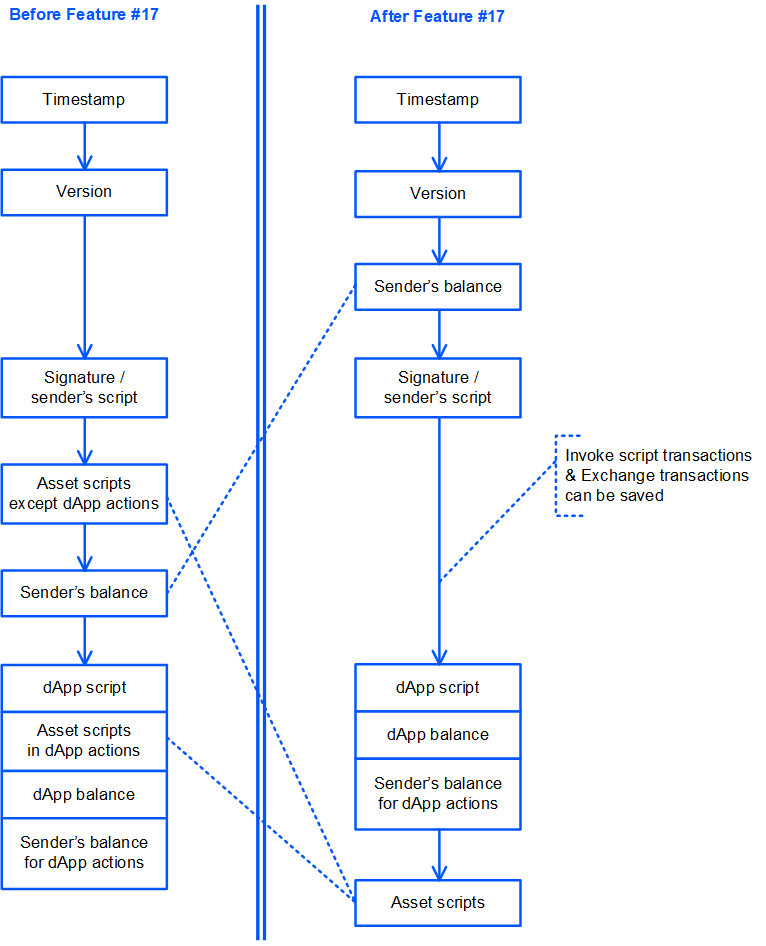
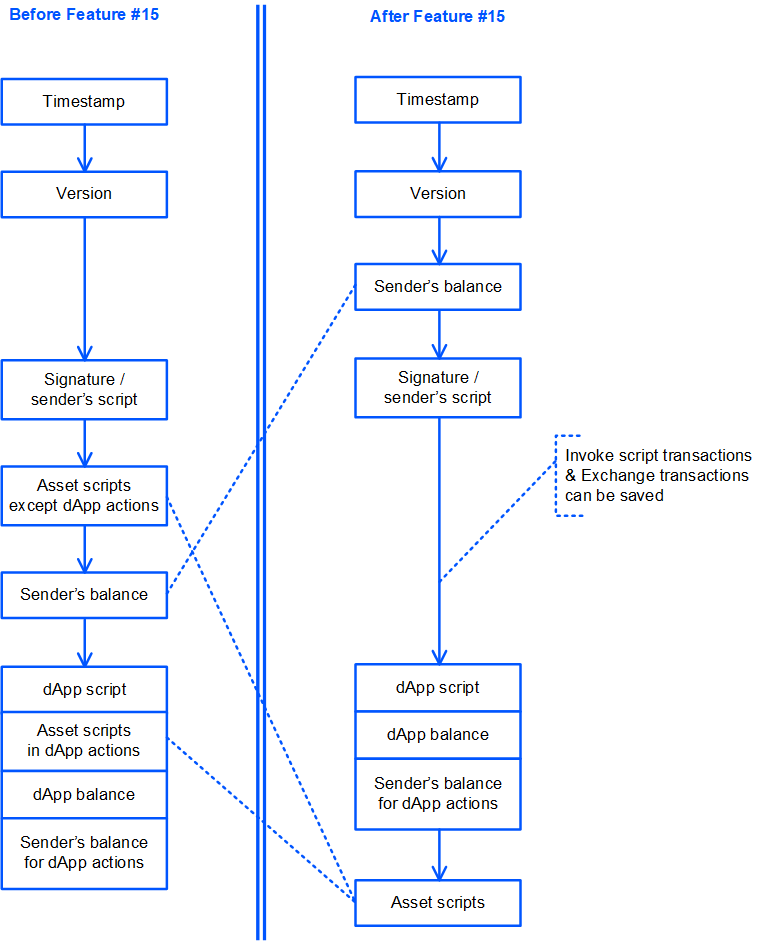
groth16 complexity, feature 17 rename

diff --git a/docs/ru/keep-in-touch/release-notes.md b/docs/ru/keep-in-touch/release-notes.md
@@ -2,19 +2,19 @@
 
 ## Улучшения ноды
 
-* Усовершенствован механизм [генерации блоков](/ru/blockchain/block/block-generation) за счет использования [VRF](https://en.wikipedia.org/wiki/Verifiable_random_function) (Verifiable random function). Это улучшение позволяет противостоять атакам типа stake grinding, при помощи которых злоумышленники пытаются повысить для себя вероятность генерации блока.
-* Изменена схема подписания майнящей нодой транзакций блока. Ранее майнящей ноде требовалось подписывать блок вместе со всеми транзакциями. Теперь в заголовок блока добавлен [корневой хеш транзакций](/ru/blockchain/block/merkle-root), поэтому достаточно подписать только заголовок.
-* В качестве идентификатора блока используется хеш BLAKE2b-256 заголовка блока.
+* Транзакции вызова скрипта и транзакции обмена сохраняются на блокчейне и за них взимается комиссия, если транзакция прошла проверку подписи отправителя или проверку скриптом аккаунта, но результат выполнения dApp-скрипта или скрипта ассета был неудачным. Сохранение невалидных транзакций поддержано в инструментах Waves. [Подробнее](/ru/keep-in-touch/april)
 * Реализована возможность удалять записи в хранилище данных аккаунта. Это действие может быть выполнено при помощи [транзакции данных](/ru/blockchain/transaction-type/data-transaction) либо структуры [DeleteEntry](/ru/ride/structures/common-structures/delete-entry) языка Ride.
 * Реализована возможность изменять наименование и описание выпущенных ассетов. Для этого предлагается использовать транзакцию нового типа, называемую [транзакцией обновления информации ассета](/ru/blockchain/transaction-type/update-asset-info-transaction).
-* Транзакции вызова скрипта и транзакции обмена сохраняются в блокчейне и за них взимается комиссия, если транзакция прошла проверку подписи отправителя или проверку скриптом аккаунта, но результат выполнения dApp-скрипта или скрипта ассета был неудачным.
 * Снижена минимальная комиссия за [транзакцию довыпуска](/ru/blockchain/transaction-type/reissue-transaction) — с 1 до 0,001 WAVES.
-* Бинарные форматы транзакций реализованы на основе [protobuf](https://developers.google.com/protocol-buffers/docs/overview?hl=ru).
 * В [транзакции выпуска](/ru/blockchain/transaction-type/issue-transaction) формат полей `name` и `description` изменен с bytes на string.
 * В [транзакции перевода](/ru/blockchain/transaction-type/transfer-transaction) и [транзакции массового перевода](/ru/blockchain/transaction-type/mass-transfer-transaction) изменен тип поля `attachment` на [union](/ru/ride/data-types/union) `(type: Int|Boolean|ByteVector|String)`.
 * В [транзакции данных](/ru/blockchain/transaction-type/transfer-transaction) максимальный размер данных увеличен до 165890 байт.
 * В [транзакции обмена](/ru/blockchain/transaction-type/transfer-transaction) ордера на покупку и продажу могут быть указаны в любом порядке.
+* Бинарные форматы транзакций реализованы на основе [protobuf](https://developers.google.com/protocol-buffers/docs/overview?hl=ru).
 * Изменена формула расчета price в [ордерах](/ru/blockchain/order). Ранее, при определении price для ассетов с разным количеством десятичных знаков, возникала проблема с величиной price. Её максимальное значение зависело от разности десятичных знаков ассетов. К примеру, price для [NFT](/ru/blockchain/token/non-fungible-token)-ассета не мог превышать 1000 WAVES. Измененная формула исправляет эту проблему. Разность  десятичных знаков больше не влияет на максимальный размер price.
+* Усовершенствован механизм [генерации блоков](/ru/blockchain/block/block-generation) за счет использования [VRF](https://en.wikipedia.org/wiki/Verifiable_random_function) (Verifiable random function). Это улучшение позволяет противостоять атакам типа stake grinding, при помощи которых злоумышленники пытаются повысить для себя вероятность генерации блока.
+* Изменена схема подписания майнящей нодой транзакций блока. Ранее майнящей ноде требовалось подписывать блок вместе со всеми транзакциями. Теперь в заголовок блока добавлен [корневой хеш транзакций](/ru/blockchain/block/merkle-root), поэтому достаточно подписать только заголовок.
+* В качестве идентификатора блока используется хеш BLAKE2b-256 заголовка блока.
 
 ## Обновление Node API
 
@@ -54,7 +54,7 @@
    * [calculateAssetId](/ru/ride/functions/built-in-functions/blockchain-functions#calculate) — получает ID ассета, сформированного структурой [Issue](/ru/ride/structures/common-structures/issue) при выполнении транзакции вызова скрипта. Сложность равна 10.
    * [contains](/ru/ride/functions/built-in-functions/string-functions#contains) — проверяет, содержит ли строка заданную подстроку. Сложность 20.
    * [createMerkleRoot](/ru/ride/functions/built-in-functions/verification-functions##createmerkleroot) — вычисляет [корневой хеш дерева Меркла транзакций блока](/ru/blockchain/block/merkle-root). Сложность 30.
-   * [groth16verify](/ru/ride/functions/built-in-functions/verification-functions#groth16verify) — семейство функций верификации [доказательства с нулевым разглашением](https://ru.wikipedia.org/wiki/Доказательство_с_нулевым_разглашением). Сложность 1900–3900 в зависимости от размера массива публичных входов.
+   * [groth16verify](/ru/ride/functions/built-in-functions/verification-functions#groth16verify) — семейство функций верификации [доказательства с нулевым разглашением](https://ru.wikipedia.org/wiki/Доказательство_с_нулевым_разглашением). Сложность 1200–2700 в зависимости от размера массива публичных входов.
    * [median](/ru/ride/functions/built-in-functions/math-functions#median) — вычисление медианы списка целых чисел. Сложность 10.
    * [transferTransactionFromProto](/ru/ride/functions/built-in-functions/converting-functions#transfertransactionfromproto) — десериализует транзакцию перевода. Сложность 5.
    * [valueOrElse(t: T|Unit, t0 : T)](/ru/ride/functions/built-in-functions/union-functions#valueOrElse) — получение значения из параметра типа данных объединение. Сложность 13.

diff --git a/docs/ru/ride/functions/built-in-functions/verification-functions.md b/docs/ru/ride/functions/built-in-functions/verification-functions.md
@@ -4,7 +4,7 @@
 | :--- | :--- | :--- |
 | [checkMerkleProof](#checkmerkleproof) | Проверяет, что данные являются частью [дерева Меркла](https://ru.wikipedia.org/wiki/Дерево_хешей) | 30 |
 | [createMerkleRoot](#createmerkleroot) | Вычисляет [корневой хеш дерева Меркла транзакций блока](/ru/blockchain/block/merkle-root) | 30 |
-| [groth16Verify](#groth16verify) | Семейство функций.<br>Осуществляют проверку [zk-SNARK](https://media.consensys.net/introduction-to-zksnarks-with-examples-3283b554fc3b) по протоколу [groth16](https://eprint.iacr.org/2016/260.pdf) | 1900–3900 |
+| [groth16Verify](#groth16verify) | Семейство функций.<br>Осуществляют проверку [zk-SNARK](https://media.consensys.net/introduction-to-zksnarks-with-examples-3283b554fc3b) по протоколу [groth16](https://eprint.iacr.org/2016/260.pdf) | 1200–2700 |
 | [rsaVerify](#rsaverify) | Семейство функций.<br>Проверяют, что цифровая подпись [RSA](https://ru.wikipedia.org/wiki/RSA) достоверна | 300 для [Стандартной библиотеки](/ru/ride/script/standard-library) **версии 3**<br>500–1000 для Стандартной библиотеки **версии 4** |
 | [sigVerify](#sigverify) | Семейство функций.<br>Проверяют, что цифровая подпись [Curve25519](https://en.wikipedia.org/wiki/Curve25519) достоверна | 100 для [Стандартной библиотеки](/ru/ride/script/standard-library) **версии 3**<br>100–200 для Стандартной библиотеки **версии 4** |
 
@@ -55,22 +55,22 @@ createMerkleRoot(merkleProofs: List[ByteVector], valueBytes: ByteVector, index: 
 
 | Название | Макс. кол-во входов | Сложность |
 |:---| :--- | :--- |
-| groth16Verify(vk:ByteVector, proof:ByteVector, inputs:ByteVector): Boolean | 16 | 3900 |
-| groth16Verify_1inputs(vk:ByteVector, proof:ByteVector, inputs:ByteVector): Boolean | 1 | 1900 |
-| groth16Verify_2inputs(vk:ByteVector, proof:ByteVector, inputs:ByteVector): Boolean | 2 | 2000 |
-| groth16Verify_3inputs(vk:ByteVector, proof:ByteVector, inputs:ByteVector): Boolean | 3 | 2150 |
-| groth16Verify_4inputs(vk:ByteVector, proof:ByteVector, inputs:ByteVector): Boolean | 4 | 2300 |
-| groth16Verify_5inputs(vk:ByteVector, proof:ByteVector, inputs:ByteVector): Boolean | 5 | 2450 |
-| groth16Verify_6inputs(vk:ByteVector, proof:ByteVector, inputs:ByteVector): Boolean | 6 | 2550 |
-| groth16Verify_7inputs(vk:ByteVector, proof:ByteVector, inputs:ByteVector): Boolean | 7 | 2700 |
-| groth16Verify_8inputs(vk:ByteVector, proof:ByteVector, inputs:ByteVector): Boolean | 8 | 2900 |
-| groth16Verify_9inputs(vk:ByteVector, proof:ByteVector, inputs:ByteVector): Boolean | 9 | 3000 |
-| groth16Verify_10inputs(vk:ByteVector, proof:ByteVector, inputs:ByteVector): Boolean | 10 | 3150 |
-| groth16Verify_11inputs(vk:ByteVector, proof:ByteVector, inputs:ByteVector): Boolean | 11 | 3250 |
-| groth16Verify_12inputs(vk:ByteVector, proof:ByteVector, inputs:ByteVector): Boolean | 12 | 3400 |
-| groth16Verify_13inputs(vk:ByteVector, proof:ByteVector, inputs:ByteVector): Boolean | 13 | 3500 |
-| groth16Verify_14inputs(vk:ByteVector, proof:ByteVector, inputs:ByteVector): Boolean | 14 | 3650 |
-| groth16Verify_15inputs(vk:ByteVector, proof:ByteVector, inputs:ByteVector): Boolean | 15 | 3750 |
+| groth16Verify(vk:ByteVector, proof:ByteVector, inputs:ByteVector): Boolean | 16 | 2700 |
+| groth16Verify_1inputs(vk:ByteVector, proof:ByteVector, inputs:ByteVector): Boolean | 1 | 1200 |
+| groth16Verify_2inputs(vk:ByteVector, proof:ByteVector, inputs:ByteVector): Boolean | 2 | 1300 |
+| groth16Verify_3inputs(vk:ByteVector, proof:ByteVector, inputs:ByteVector): Boolean | 3 | 1400 |
+| groth16Verify_4inputs(vk:ByteVector, proof:ByteVector, inputs:ByteVector): Boolean | 4 | 1500 |
+| groth16Verify_5inputs(vk:ByteVector, proof:ByteVector, inputs:ByteVector): Boolean | 5 | 1600 |
+| groth16Verify_6inputs(vk:ByteVector, proof:ByteVector, inputs:ByteVector): Boolean | 6 | 1700 |
+| groth16Verify_7inputs(vk:ByteVector, proof:ByteVector, inputs:ByteVector): Boolean | 7 | 1800 |
+| groth16Verify_8inputs(vk:ByteVector, proof:ByteVector, inputs:ByteVector): Boolean | 8 | 1900 |
+| groth16Verify_9inputs(vk:ByteVector, proof:ByteVector, inputs:ByteVector): Boolean | 9 | 2000 |
+| groth16Verify_10inputs(vk:ByteVector, proof:ByteVector, inputs:ByteVector): Boolean | 10 | 2100 |
+| groth16Verify_11inputs(vk:ByteVector, proof:ByteVector, inputs:ByteVector): Boolean | 11 | 2200 |
+| groth16Verify_12inputs(vk:ByteVector, proof:ByteVector, inputs:ByteVector): Boolean | 12 | 2300 |
+| groth16Verify_13inputs(vk:ByteVector, proof:ByteVector, inputs:ByteVector): Boolean | 13 | 2400 |
+| groth16Verify_14inputs(vk:ByteVector, proof:ByteVector, inputs:ByteVector): Boolean | 14 | 2500 |
+| groth16Verify_15inputs(vk:ByteVector, proof:ByteVector, inputs:ByteVector): Boolean | 15 | 2600 |
 
 ### Параметры
 

diff --git a/docs/en/ride/functions/built-in-functions/verification-functions.md b/docs/en/ride/functions/built-in-functions/verification-functions.md
@@ -4,7 +4,7 @@
 | :--- | :--- | :--- |
 | [checkMerkleProof](#checkmerkleproof) | Checks that the data is part of the [Merkle tree](https://en.wikipedia.org/wiki/Merkle_tree) | 30 |
 | [createMerkleRoot](#createmerkleroot) | Calculates the [Merkle root hash](/en/blockchain/block/merkle-root) for transactions of block | 30 |
-| [groth16Verify](#groth16verify) | Range of functions.<br>Check [zk-SNARK](https://media.consensys.net/introduction-to-zksnarks-with-examples-3283b554fc3b) by [groth16](https://eprint.iacr.org/2016/260.pdf) protocol | 1900–3900 |
+| [groth16Verify](#groth16verify) | Range of functions.<br>Check [zk-SNARK](https://media.consensys.net/introduction-to-zksnarks-with-examples-3283b554fc3b) by [groth16](https://eprint.iacr.org/2016/260.pdf) protocol | 1200–2700 |
 | [rsaVerify](#rsaverify) | Range of functions.<br>Check that the [RSA](https://en.wikipedia.org/wiki/RSA_%28cryptosystem%29) digital signature is valid | 300 for [Standard Library](/en/ride/script/standard-library) **version 3**<br>500–1000 for Standard Library **version 4** |
 | [sigVerify](#sigverify) | Range of functions.<br>Check that the [Curve25519](https://en.wikipedia.org/wiki/Curve25519) digital signature is valid | 100 for [Standard Library](/en/ride/script/standard-library) **version 3**<br>100–200 for Standard Library **version 4** |
 
@@ -55,22 +55,22 @@ Range of functions. Check [zk-SNARK](https://media.consensys.net/introduction-to
 
 | Name | Max number of inputs | Complexity |
 |:---| :--- | :--- |
-| groth16Verify(vk:ByteVector, proof:ByteVector, inputs:ByteVector): Boolean | 16 | 3900 |
-| groth16Verify_1inputs(vk:ByteVector, proof:ByteVector, inputs:ByteVector): Boolean | 1 | 1900 |
-| groth16Verify_2inputs(vk:ByteVector, proof:ByteVector, inputs:ByteVector): Boolean | 2 | 2000 |
-| groth16Verify_3inputs(vk:ByteVector, proof:ByteVector, inputs:ByteVector): Boolean | 3 | 2150 |
-| groth16Verify_4inputs(vk:ByteVector, proof:ByteVector, inputs:ByteVector): Boolean | 4 | 2300 |
-| groth16Verify_5inputs(vk:ByteVector, proof:ByteVector, inputs:ByteVector): Boolean | 5 | 2450 |
-| groth16Verify_6inputs(vk:ByteVector, proof:ByteVector, inputs:ByteVector): Boolean | 6 | 2550 |
-| groth16Verify_7inputs(vk:ByteVector, proof:ByteVector, inputs:ByteVector): Boolean | 7 | 2700 |
-| groth16Verify_8inputs(vk:ByteVector, proof:ByteVector, inputs:ByteVector): Boolean | 8 | 2900 |
-| groth16Verify_9inputs(vk:ByteVector, proof:ByteVector, inputs:ByteVector): Boolean | 9 | 3000 |
-| groth16Verify_10inputs(vk:ByteVector, proof:ByteVector, inputs:ByteVector): Boolean | 10 | 3150 |
-| groth16Verify_11inputs(vk:ByteVector, proof:ByteVector, inputs:ByteVector): Boolean | 11 | 3250 |
-| groth16Verify_12inputs(vk:ByteVector, proof:ByteVector, inputs:ByteVector): Boolean | 12 | 3400 |
-| groth16Verify_13inputs(vk:ByteVector, proof:ByteVector, inputs:ByteVector): Boolean | 13 | 3500 |
-| groth16Verify_14inputs(vk:ByteVector, proof:ByteVector, inputs:ByteVector): Boolean | 14 | 3650 |
-| groth16Verify_15inputs(vk:ByteVector, proof:ByteVector, inputs:ByteVector): Boolean | 15 | 3750 |
+| groth16Verify(vk:ByteVector, proof:ByteVector, inputs:ByteVector): Boolean | 16 | 2700 |
+| groth16Verify_1inputs(vk:ByteVector, proof:ByteVector, inputs:ByteVector): Boolean | 1 | 1200 |
+| groth16Verify_2inputs(vk:ByteVector, proof:ByteVector, inputs:ByteVector): Boolean | 2 | 1300 |
+| groth16Verify_3inputs(vk:ByteVector, proof:ByteVector, inputs:ByteVector): Boolean | 3 | 1400 |
+| groth16Verify_4inputs(vk:ByteVector, proof:ByteVector, inputs:ByteVector): Boolean | 4 | 1500 |
+| groth16Verify_5inputs(vk:ByteVector, proof:ByteVector, inputs:ByteVector): Boolean | 5 | 1600 |
+| groth16Verify_6inputs(vk:ByteVector, proof:ByteVector, inputs:ByteVector): Boolean | 6 | 1700 |
+| groth16Verify_7inputs(vk:ByteVector, proof:ByteVector, inputs:ByteVector): Boolean | 7 | 1800 |
+| groth16Verify_8inputs(vk:ByteVector, proof:ByteVector, inputs:ByteVector): Boolean | 8 | 1900 |
+| groth16Verify_9inputs(vk:ByteVector, proof:ByteVector, inputs:ByteVector): Boolean | 9 | 2000 |
+| groth16Verify_10inputs(vk:ByteVector, proof:ByteVector, inputs:ByteVector): Boolean | 10 | 2100 |
+| groth16Verify_11inputs(vk:ByteVector, proof:ByteVector, inputs:ByteVector): Boolean | 11 | 2200 |
+| groth16Verify_12inputs(vk:ByteVector, proof:ByteVector, inputs:ByteVector): Boolean | 12 | 2300 |
+| groth16Verify_13inputs(vk:ByteVector, proof:ByteVector, inputs:ByteVector): Boolean | 13 | 2400 |
+| groth16Verify_14inputs(vk:ByteVector, proof:ByteVector, inputs:ByteVector): Boolean | 14 | 2500 |
+| groth16Verify_15inputs(vk:ByteVector, proof:ByteVector, inputs:ByteVector): Boolean | 15 | 2600 |
 
 ### Parameters
 

diff --git a/docs/ru/keep-in-touch/april.md b/docs/ru/keep-in-touch/april.md
@@ -1,0 +1,59 @@
+# Сохранение невалидных транзакций
+
+Начиная с версии ноды 1.2.4, после активации фичи №&nbps;15 “Ride V4, VRF, Protobuf, Failed transactions” меняется порядок валидации транзакций:
+
+* Транзакции вызова скрипта и транзакции обмена сохраняются на блокчейне и за них взимается комиссия, если транзакция прошла проверку подписи отправителя или проверку скриптом аккаунта, но результат выполнения dApp-скрипта или скрипта ассета был неудачным.
+* Для транзакции вызова скрипта скрипты ассетов выполняются после dApp-скрипта.
+* Становится невозможной оплата комиссии за транзакцию вызова скрипта за счет средств, переведенных dApp-скриптом отправителю. Если баланс отправителя недостаточен для оплаты комиссии, dApp-скрипт не выполняется.
+
+[Подробнее о валидации транзакций](/ru/blockchain/transaction/transaction-validation)
+
+Работа с невалидными транзакциями поддержана в следующих инструментах.
+
+## Node API
+
+В следующие методы добавлено поле `applicationStatus`:
+
+   * `GET /transactions/info/{id}`
+   * `GET /transactions/status`
+   * `POST /transactions/status`
+
+Поле `applicationStatus` содержит результат валидации транзакции:
+* `succeed` — валидация прошла успешно.
+* `scriptExecutionFailed` — результат выполнения dApp-скрипта или скрипта ассета был неудачным.
+
+[Все изменения Node API в релизе 1.2](/ru/keep-in-touch/release-notes/#обновление-node-api)
+
+## Библиотеки
+
+**waves-transactions**
+
+Функции `waitForTx` и `waitForTxWithNConfirmations` возвращают Promise транзакции, который разрешается после ее попадания в блок. Теперь для транзакции добавлено поле `applicationStatus`.
+
+[Документация waves-transactions на Github](https://wavesplatform.github.io/waves-transactions/)
+
+**node-api JS**
+
+Функция `transactionInfo` возвращаtnющая  добавлена возможность получить объект транзакции и поле `applicationStatus`.
+
+[Исходный код node-api JS](https://github.com/wavesplatform/node-api-js/)
+
+## Waves Explorer (wavesexplorer.com)
+
+* Поддержaно отображение транзакций с неудачным результатом выполнения dApp-скрипта или скрипта ассета, сохраненных на блокчейне.
+* Для транзакции вызова скрипта результата выполнения скрипта отображается в виде таблицы.
+
+[Все изменения Waves Explorer](/ru/keep-in-touch/release-notes/#изменения-в-waves-explorer)
+
+## Waves IDE (ide.wavesplatform.com)
+
+* JavaScript-консоль поддерживает поле `applicationStatus` транзакции.
+* В тестовом окружении поддержана возможность получения `applicationStatus` у транзакции.
+
+## surfboard
+
+Поддержана возможность получения `applicationStatus` для транзакций.
+
+## Dapp Ui (waves-dapp.com)
+
+Поддержана возможность получения `applicationStatus` для отправленных транзакций.

diff --git a/docs/ru/ride/functions/built-in-functions/readme.md b/docs/ru/ride/functions/built-in-functions/readme.md
@@ -27,7 +27,7 @@
 | :--- | :--- | :--- |
 | checkMerkleProof(ByteVector, ByteVector, ByteVector): Boolean | Проверяет, что данные являются частью [дерева Меркла](https://ru.wikipedia.org/wiki/Дерево_хешей) | 30 |
 | createMerkleRoot(List[ByteVector], ByteVector, Int) : ByteVector | Вычисляет [корневой хеш дерева Меркла транзакций блока](/ru/blockchain/block/merkle-root) | 30 |
-| groth16Verify(ByteVector, ByteVector, ByteVector): Boolean | Семейство функций.<br>Осуществляют проверку [zk-SNARK](https://media.consensys.net/introduction-to-zksnarks-with-examples-3283b554fc3b) по протоколу [groth16](https://eprint.iacr.org/2016/260.pdf) | 1900–3900 |
+| groth16Verify(ByteVector, ByteVector, ByteVector): Boolean | Семейство функций.<br>Осуществляют проверку [zk-SNARK](https://media.consensys.net/introduction-to-zksnarks-with-examples-3283b554fc3b) по протоколу [groth16](https://eprint.iacr.org/2016/260.pdf) | 1200–2700 |
 | rsaVerify(digestAlgorithmType, ByteVector, ByteVector, ByteVector): Boolean | Семейство функций.<br>Проверяют, что цифровая подпись [RSA](https://ru.wikipedia.org/wiki/RSA) достоверна | 300 для [Стандартной библиотеки](/ru/ride/script/standard-library) **версии 3**<br>500–1000 для Стандартной библиотеки **версии 4** |
 | sigVerify(ByteVector, ByteVector, ByteVector): Boolean | Семейство функций.<br>Проверяют, что цифровая подпись [Curve25519](https://en.wikipedia.org/wiki/Curve25519) достоверна | 100 для [Стандартной библиотеки](/ru/ride/script/standard-library) **версии 3**<br>100–200 для Стандартной библиотеки **версии 4** |
 

diff --git a/docs/en/keep-in-touch/release-notes.md b/docs/en/keep-in-touch/release-notes.md
@@ -54,7 +54,7 @@
    * [calculateAssetId](/en/ride/functions/built-in-functions/blockchain-functions#calculate) that calculates ID of asset generated by the [Issue](/en/ride/structures/common-structures/issue) structure when executing a dApp script. Complexity is 10.
    * [contains](/en/ride/functions/built-in-functions/string-functions#contains) that checks whether the second argument (substring) is contained in the first string argument. Complexity is 20.
    * [createMerkleRoot](/en/ride/functions/built-in-functions/verification-functions##createmerkleroot) that calculates [transactions root hash](/en/blockchain/block/merkle-root). Complexity is 30.
-   * [groth16verify](/en/ride/functions/built-in-functions/verification-functions#groth16verify) range of functions that verify the [zero-knowledge proof](https://en.wikipedia.org/wiki/Zero-knowledge_proof). Complexity is 1900–3900 depending on the argument size limit.
+   * [groth16verify](/en/ride/functions/built-in-functions/verification-functions#groth16verify) range of functions that verify the [zero-knowledge proof](https://en.wikipedia.org/wiki/Zero-knowledge_proof). Complexity is 1200–2700 depending on the argument size limit.
    * [median](/en/ride/functions/built-in-functions/math-functions#median) that calculates a median of the list of integers. Complexity is 10.
    * [transferTransactionFromProto](/en/ride/functions/built-in-functions/converting-functions#transfertransactionfromproto) — deserializes a transfer transaction. Complexity is 5.
    * [valueOrElse(t: T|Unit, t0 : T)](/en/ride/functions/built-in-functions/union-functions#valueOrElse) that returns a value from the union type if it's not [unit](/en/ride/data-types/unit). Complexity is 13.

diff --git a/docs/en/ride/functions/built-in-functions/readme.md b/docs/en/ride/functions/built-in-functions/readme.md
@@ -156,6 +156,6 @@ A **built-in function** is a [function](/en/ride/functions) of the [script conte
 | :--- | :--- | :--- |
 | checkMerkleProof(ByteVector, ByteVector, ByteVector): Boolean | Checks that the data is part of the [Merkle tree](https://en.wikipedia.org/wiki/Merkle_tree) | 30 |
 | createMerkleRoot(List[ByteVector], ByteVector, Int) : ByteVector | Calculates the [Merkle root hash](/en/blockchain/block/merkle-root) for transactions of block | 30 | 
-| groth16Verify(ByteVector, ByteVector, ByteVector): Boolean | Range of functions.<br>Check [zk-SNARK](https://media.consensys.net/introduction-to-zksnarks-with-examples-3283b554fc3b) by [groth16](https://eprint.iacr.org/2016/260.pdf) protocol | 1900–3900 |
+| groth16Verify(ByteVector, ByteVector, ByteVector): Boolean | Range of functions.<br>Check [zk-SNARK](https://media.consensys.net/introduction-to-zksnarks-with-examples-3283b554fc3b) by [groth16](https://eprint.iacr.org/2016/260.pdf) protocol | 1200–2700 |
 | rsaVerify(digestAlgorithmType, ByteVector, ByteVector, ByteVector): Boolean | Range of functions.<br>Check that the [RSA](https://en.wikipedia.org/wiki/RSA_%28cryptosystem%29) digital signature is valid, i.e. it was created by the owner of the public key | 300 for [Standard Library](/en/ride/script/standard-library) **version 3**<br>500–1000 for Standard Library **version 4** |
 | sigVerify(ByteVector, ByteVector, ByteVector): Boolean | Range of functions.<br>Check that the [Curve25519](https://en.wikipedia.org/wiki/Curve25519) digital signature is valid, i.e. it was created by the owner of the public key | 100 for [Standard Library](/en/ride/script/standard-library) **version 3**<br>100–200 for Standard Library **version 4** |

diff --git a/docs/en/blockchain/transaction/transaction-validation.md b/docs/en/blockchain/transaction/transaction-validation.md
@@ -6,7 +6,7 @@ Since node version 1.2.4, after activation of feature #15 “Ride V4, VRF, Proto
 
 ![](./_assets/tx-validaton.png)
 
-## Before Activation of Feature #17
+## Before Activation of Feature #15
 
 The following checks are performed:
 
@@ -34,7 +34,7 @@ The following checks are performed:
 
 A transaction is saved on the blockchain and the transaction fee is charged if all checks are passed.
 
-## After Activation of Feature #17
+## After Activation of Feature #15
 
 The following checks are performed:
 
@@ -63,4 +63,4 @@ Invoke script transactions and exchange transactions are saved on the blockchain
 
 Transactons of other type are saved on the blockchain and the fee is charged if all checks are passed.
 
-> :warning: After activation of the feature #17, a fee for the invoke script transaction cannot be funded by transfer from dApp to the transaction sender. If sender's balance is insufficient to pay the fee, dApp script is not executed.
+> :warning: After activation of the feature #15, a fee for the invoke script transaction cannot be funded by transfer from dApp to the transaction sender. If sender's balance is insufficient to pay the fee, dApp script is not executed.

diff --git a/docs/ru/blockchain/transaction/transaction-validation.md b/docs/ru/blockchain/transaction/transaction-validation.md
@@ -60,4 +60,4 @@
 
 Транзакции остальных типов сохраняются в блокчейне и за них взимается комиссия, если они успешно прошли все проверки.
 
-> :warning: После активации фичи №&nbsp;17 становится невозможной оплата комиссии за транзакцию вызова скрипта за счет средств, переведенных dApp-скриптом отправителю. Если баланс отправителя недостаточен для оплаты комиссии, dApp-скрипт не выполняется.
+> :warning: После активации фичи №&nbsp;15 становится невозможной оплата комиссии за транзакцию вызова скрипта за счет средств, переведенных dApp-скриптом отправителю. Если баланс отправителя недостаточен для оплаты комиссии, dApp-скрипт не выполняется.

diff --git a/docs/ru/ride/structures/script-actions/delete-entry.md b/docs/ru/ride/structures/script-actions/delete-entry.md
@@ -1,6 +1,6 @@
 # DeleteEntry
 
-> Структура `DeleteEntry` доступна с версии ноды 1.2.0. Возможность включается после активации фичи №&nbps;15 “Ride V4, VRF, Protobuf, Failed transactions”. Версии 1.2.x в настоящее время работают только на [Stagenet](/ru/blockchain/blockchain-network/stage-network).
+> :warning: Структура `DeleteEntry` представлена в [Стандартной библиотеке](/ru/ride/script/standard-library) **версии 4**, которая в настоящее время доступна только на [Stagenet](/ru/blockchain/blockchain-network/stage-network).
 
 **DeleteEntry** - cтруктура, задающая параметры удаления записи из [хранилища данных аккаунта](/ru/blockchain/account/account-data-storage), которое выполняется в результате вызова [вызываемой функции](/ru/ride/functions/callable-function).
 

diff --git a/docs/ru/ride/structures/script-actions/int-entry.md b/docs/ru/ride/structures/script-actions/int-entry.md
@@ -1,6 +1,6 @@
 # IntegerEntry
 
-> :warning: Структура IntegerEntry представлена в [Стандартной библиотеке](/ru/ride/script/standard-library) **версии 4**, которая в настоящее время доступна только на [Stagenet](/ru/blockchain/blockchain-network/stage-network).
+> :warning: Структура `IntegerEntry` представлена в [Стандартной библиотеке](/ru/ride/script/standard-library) **версии 4**, которая в настоящее время доступна только на [Stagenet](/ru/blockchain/blockchain-network/stage-network).
 
 **IntegerEntry** - cтруктура, задающая ключ и значение записи [хранилища данных аккаунта](/ru/blockchain/account/account-data-storage) целочисленного типа, которая создается или изменяется в результате вызова [вызываемой функции](/ru/ride/functions/callable-function).
 

diff --git a/docs/ru/ride/structures/script-actions/boolean-entry.md b/docs/ru/ride/structures/script-actions/boolean-entry.md
@@ -1,6 +1,6 @@
 # BooleanEntry
 
-> :warning: Структура BooleanEntry представлена в [Стандартной библиотеке](/ru/ride/script/standard-library) **версии 4**, которая в настоящее время доступна только на [Stagenet](/ru/blockchain/blockchain-network/stage-network).
+> :warning: Структура `BooleanEntry` представлена в [Стандартной библиотеке](/ru/ride/script/standard-library) **версии 4**, которая в настоящее время доступна только на [Stagenet](/ru/blockchain/blockchain-network/stage-network).
 
 **BooleanEntry** - cтруктура, задающая ключ и значение записи [хранилища данных аккаунта](/ru/blockchain/account/account-data-storage) логического типа, которая создается или изменяется в результате вызова [вызываемой функции](/ru/ride/functions/callable-function).
 
